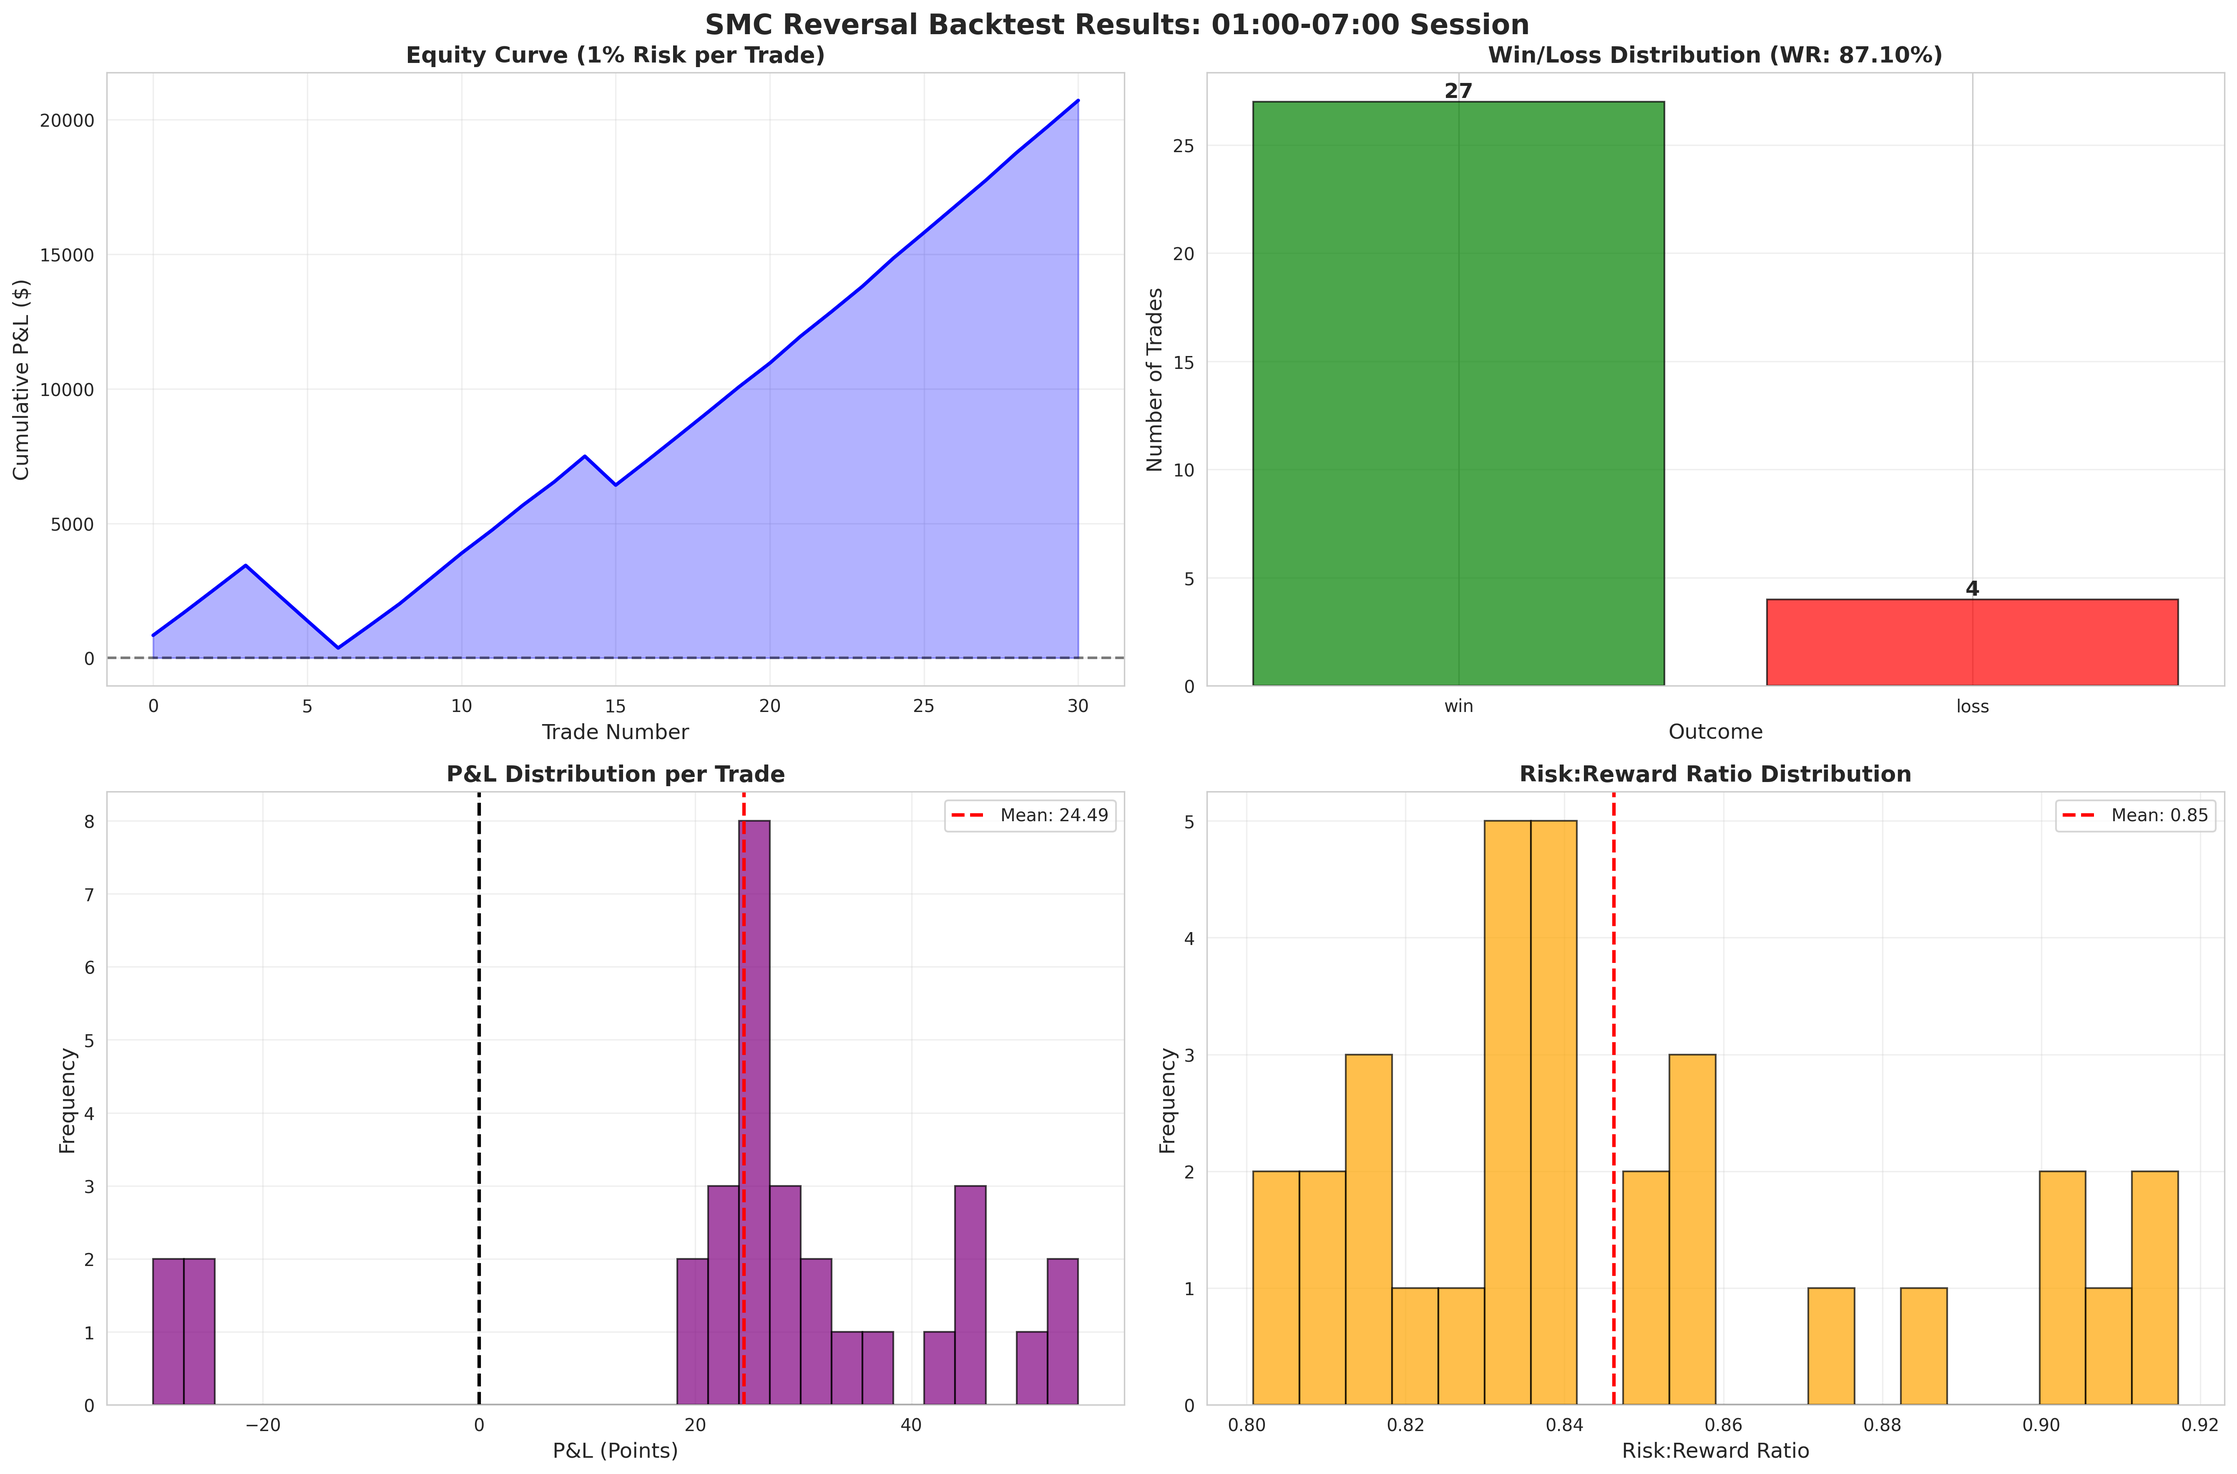
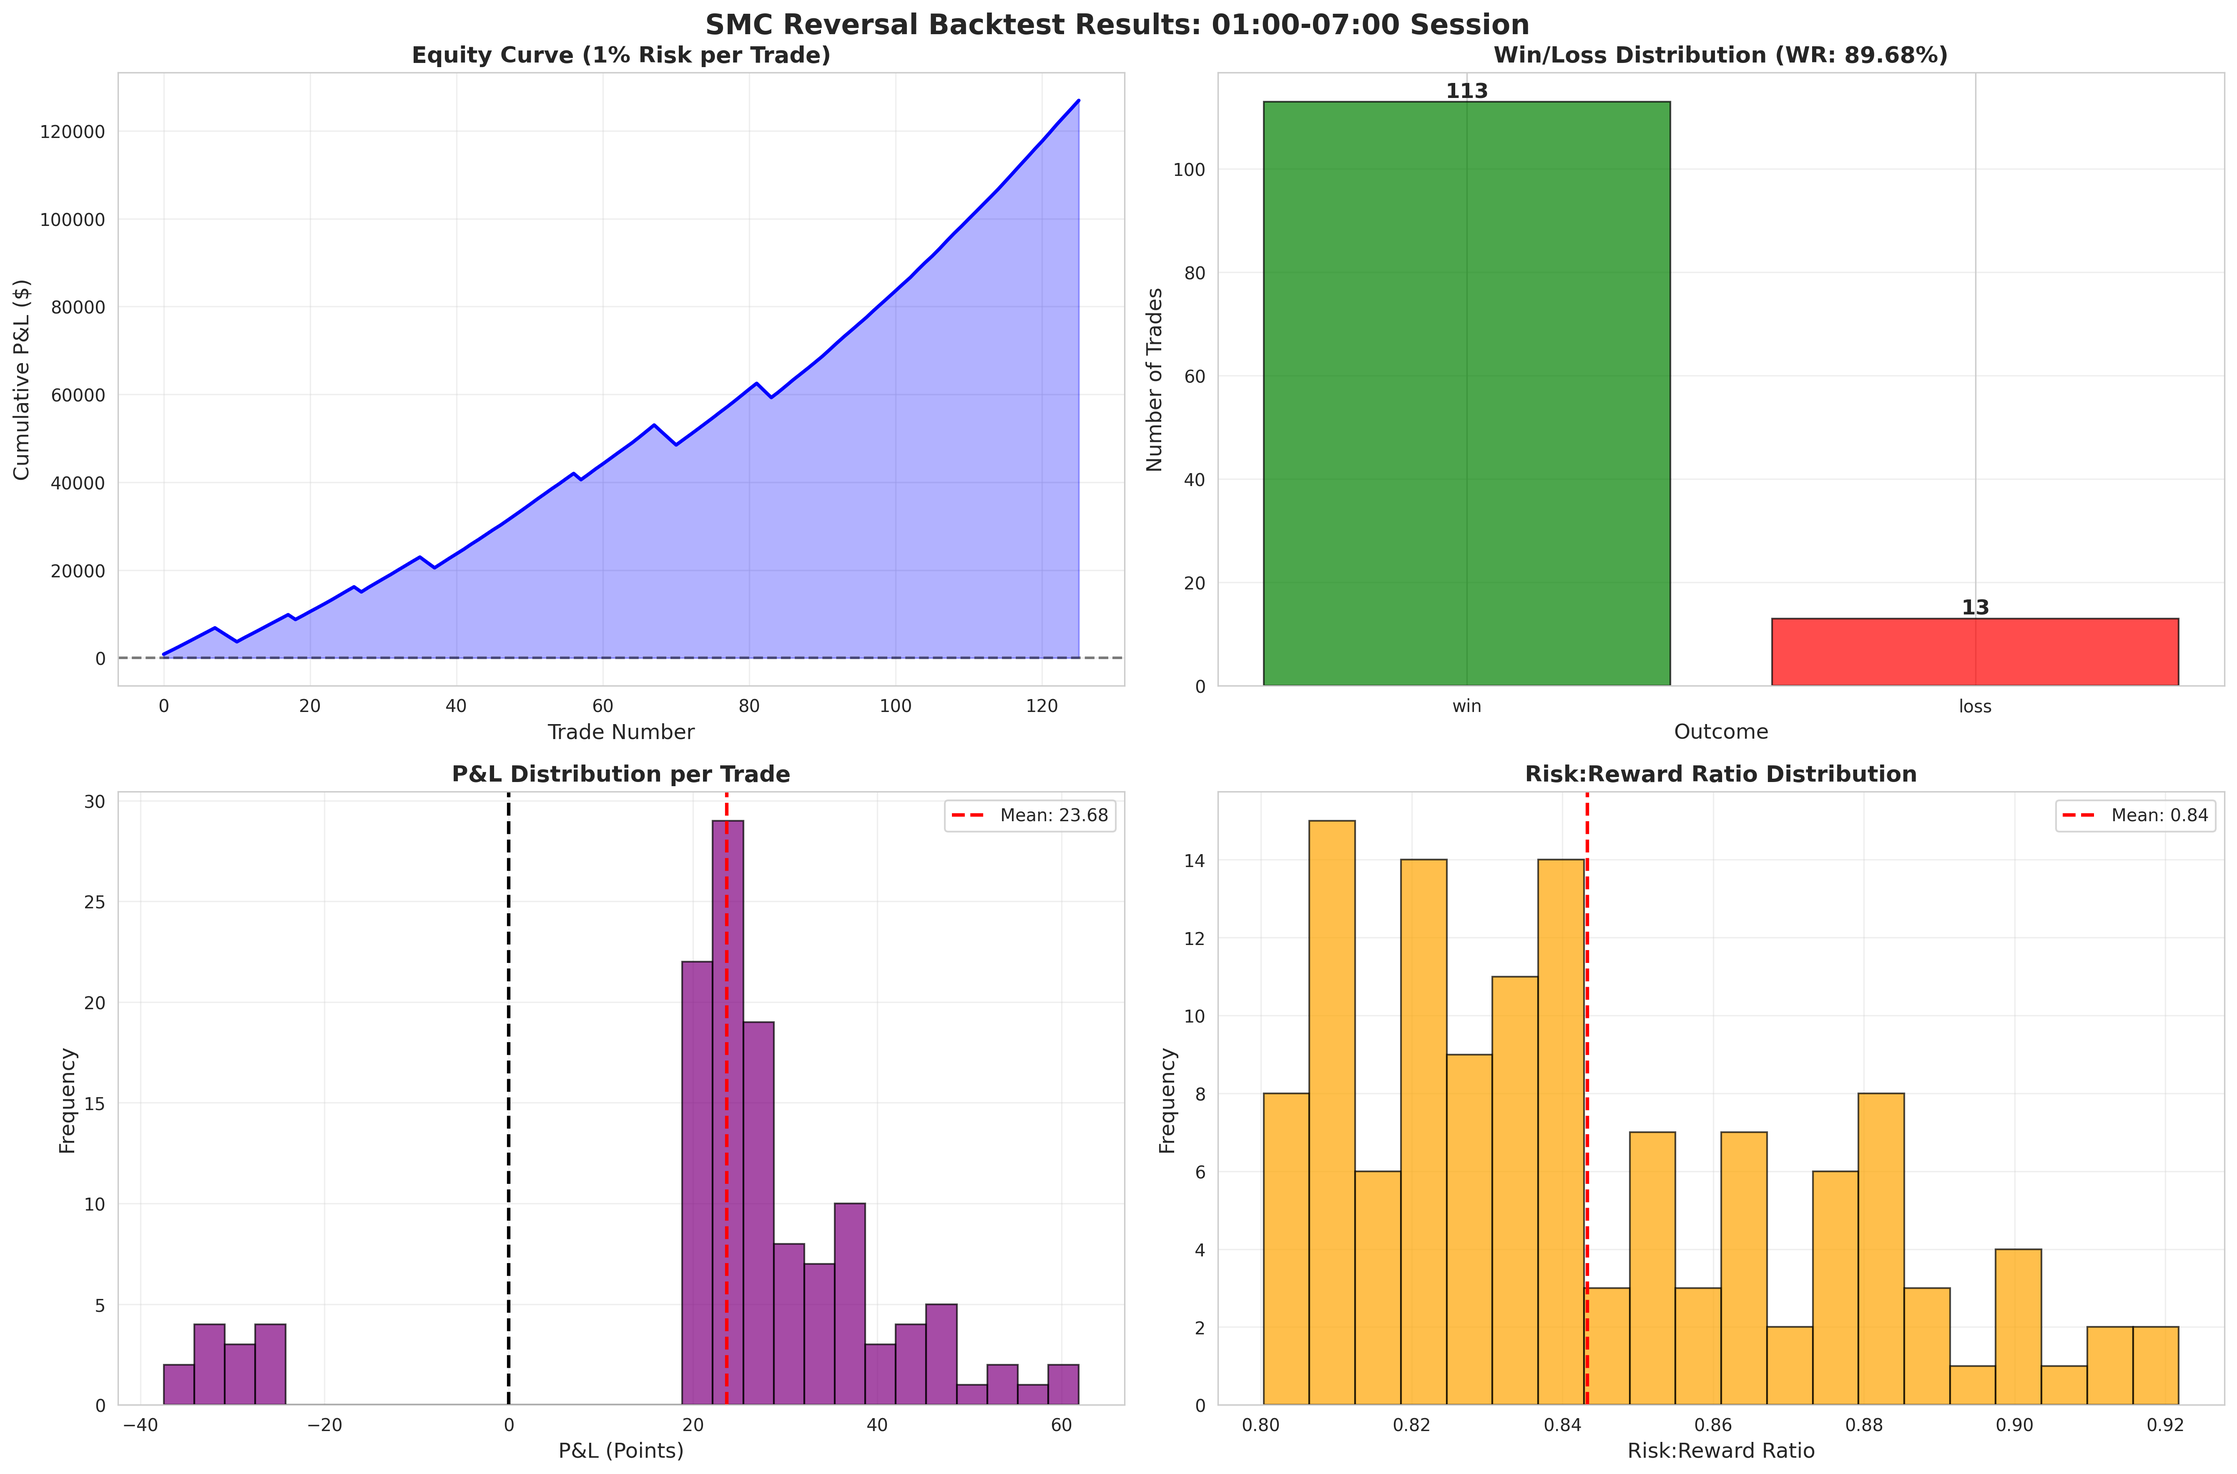
Optimize fractal lookback from 12 to 6 periods: 89.68% WR, 8.53 PF, 126 trades, +126.95% return

diff --git a/smc_reversal_backtest_01_07.py b/smc_reversal_backtest_01_07.py
@@ -31,8 +31,8 @@ SESSION_END = time(7, 0)     # 07:00
 RISK_PER_TRADE = 0.01        # 1% risk per trade
 INITIAL_CAPITAL = 100000     # Starting capital
 FRACTAL_WINDOW = 1           # Number of candles each side for local comparison
-FRACTAL_LOOKBACK = 12        # Rolling max/min period for significant fractals
-REVERSAL_WINDOW = 2          # Number of candles to check for bearish reversal (reduced to 2)
+FRACTAL_LOOKBACK = 6         # Rolling max/min period for significant fractals (changed from 12 to 6)
+REVERSAL_WINDOW = 2          # Number of candles to check for bearish reversal
 FIB_ENTRY_LEVEL = 0.5        # 50% Fibonacci retracement
 MIN_FVG_SIZE = 5             # Minimum FVG size in points
 DEBUG = False                # Enable debug output
@@ -110,21 +110,21 @@ def filter_session_data(df, start_time, end_time):
     return session_df
 
 
-def detect_fractals(df, window=1, lookback=12):
+def detect_fractals(df, window=1, lookback=6):
     """
     Detect SIGNIFICANT fractal highs and lows using stricter criteria.
     
     Fractal High must satisfy TWO conditions:
     1. Surrounded by lower candles: High[i] > max(High[i-window:i]) AND High[i] > max(High[i+1:i+window+1])
-    2. Highest point in last 12 candles: High[i] == max(High[i-12:i+1])
+    2. Highest point in last 6 candles: High[i] == max(High[i-6:i+1])
     
     Fractal Low must satisfy TWO conditions:
     1. Surrounded by higher candles: Low[i] < min(Low[i-window:i]) AND Low[i] < min(Low[i+1:i+window+1])
-    2. Lowest point in last 12 candles: Low[i] == min(Low[i-12:i+1])
+    2. Lowest point in last 6 candles: Low[i] == min(Low[i-6:i+1])
     
     Args:
         window: Number of candles on each side for local comparison (default=1)
-        lookback: Number of periods for rolling max/min (default=12)
+        lookback: Number of periods for rolling max/min (default=6)
     
     Returns:
         DataFrame with fractal_high and fractal_low boolean columns

diff --git a/README_SMC_REVERSAL.md b/README_SMC_REVERSAL.md
@@ -1,4 +1,4 @@
-# SMC Reversal Backtest Strategy - Documentation (Version Améliorée)
+# SMC Reversal Backtest Strategy - Documentation (Version Optimisée)
 
 ## Vue d'ensemble
 
@@ -7,71 +7,71 @@ Stratégie de **Reversal SMC (Smart Money Concepts)** pour la session **01:00-07
 **Période testée:** 2018-2025 (7+ années complètes, 2,032 sessions)  
 **Timeframe:** 5 minutes  
 **Type de trades:** Short (vente) uniquement  
-**Version:** 2.0 - Fractals Significatifs + Sweeps Stricts
+**Version:** 2.1 - Fractals 6 Périodes (Optimisé)
 
 ---
 
-## 📊 Résultats du Backtest (Version Améliorée)
+## 📊 Résultats du Backtest (Version Optimisée)
 
 ### Performance Globale (2018-2025)
 
 | Métrique | Valeur |
 |----------|--------|
-| **Total Trades** | 31 |
-| **Trades Gagnants** | 27 (87.10%) |
-| **Trades Perdants** | 4 (12.90%) |
-| **Win Rate** | **87.10%** ⭐⭐⭐⭐⭐ |
-| **Profit Factor** | **7.75** ⭐⭐⭐⭐⭐ |
-| **R:R Moyen** | 0.85:1 |
+| **Total Trades** | 126 |
+| **Trades Gagnants** | 113 (89.68%) |
+| **Trades Perdants** | 13 (10.32%) |
+| **Win Rate** | **89.68%** ⭐⭐⭐⭐⭐ |
+| **Profit Factor** | **8.53** ⭐⭐⭐⭐⭐ |
+| **R:R Moyen** | 0.84:1 |
 
 ### Analyse P&L
 
 | Métrique | Valeur (Points NQ) |
 |----------|-------------------|
-| **P&L Total** | +759.32 points |
-| **P&L Moyen par Trade** | +24.49 points |
-| **Gain Moyen** | +32.29 points |
-| **Perte Moyenne** | -28.13 points |
-| **Profit Brut** | +871.84 points |
-| **Perte Brute** | -112.52 points |
+| **P&L Total** | +2,983.61 points |
+| **P&L Moyen par Trade** | +23.68 points |
+| **Gain Moyen** | +29.91 points |
+| **Perte Moyenne** | -30.48 points |
+| **Profit Brut** | +3,379.90 points |
+| **Perte Brute** | -396.29 points |
 
 ### Performance du Compte (1% Risk)
 
 | Métrique | Valeur |
 |----------|--------|
 | **Capital Initial** | $100,000 |
-| **Equity Finale** | **$120,721.43** |
-| **Rendement Total** | **+20.72%** 🚀 |
-| **Sur 7 ans** | ~2.96% par an |
+| **Equity Finale** | **$226,950.76** |
+| **Rendement Total** | **+126.95%** 🚀🚀 |
+| **Sur 7 ans** | ~18.1% par an |
 
 ### Résultats par Année (2025)
 
 | Métrique | Valeur |
 |----------|--------|
-| **Total Trades 2025** | 8 |
+| **Total Trades 2025** | 27 |
 | **Win Rate 2025** | 100.00% |
-| **P&L Total 2025** | +280.24 points |
-| **P&L Moyen 2025** | +35.03 points/trade |
+| **P&L Total 2025** | +904.21 points |
+| **P&L Moyen 2025** | +33.49 points/trade |
 
 ---
 
-## 🎯 Logique de la Stratégie (Améliorée)
+## 🎯 Logique de la Stratégie (Optimisée)
 
-### 1. Identification de la Structure (Fractals SIGNIFICATIFS)
+### 1. Identification de la Structure (Fractals SIGNIFICATIFS - 6 Périodes)
 
-**Nouvelle approche:** Fractals plus stricts pour identifier uniquement les points pivots majeurs.
+**Approche optimisée:** Fractals avec rolling 6 périodes pour équilibrer qualité et fréquence.
 
 **Fractal High SIGNIFICATIF - DEUX conditions obligatoires:**
 1. **Condition Locale:** Entouré de bougies plus basses (High[i] > High[i-1] ET High[i] > High[i+1])
-2. **Condition Globale:** Point le plus HAUT des 12 dernières bougies (Rolling Max sur 12 périodes)
+2. **Condition Globale:** Point le plus HAUT des **6 dernières bougies** (Rolling Max sur 6 périodes)
 
 **Fractal Low SIGNIFICATIF - DEUX conditions obligatoires:**
 1. **Condition Locale:** Entouré de bougies plus hautes (Low[i] < Low[i-1] ET Low[i] < Low[i+1])
-2. **Condition Globale:** Point le plus BAS des 12 dernières bougies (Rolling Min sur 12 périodes)
+2. **Condition Globale:** Point le plus BAS des **6 dernières bougies** (Rolling Min sur 6 périodes)
 
 **Paramètres:**
 - Window = 1 bougie de chaque côté (local)
-- Lookback = 12 bougies (rolling max/min)
+- Lookback = **6 bougies** (rolling max/min - optimisé pour équilibre qualité/fréquence)
 
 ### 2. Détection du Sweep (Liquidity Sweep STRICT)
 
@@ -125,59 +125,54 @@ Après un sweep, on cherche un **MSS** :
 
 ---
 
-## 📝 Exemples de Trades - Derniers 5 de 2025 (Version Améliorée)
+## 📝 Exemples de Trades - Derniers 5 de 2025 (Version Optimisée - 6 Périodes)
 
-### Trade #4 - 23 Juillet 2025
+### Trade #23 - 14 Octobre 2025
 
-- **Résultat:** ✅ WIN (+25.75 points)
-- **Session:** 2025-07-23, Entrée: 06:05, Sortie: 07:50
-- **Sweep High:** 23,514.35 (fractal significatif: +12 rolling max) → **MSS Low:** 23,462.84
-- **Entrée (50% Fib):** 23,488.60
-- **SL:** 23,519.35 | **TP:** 23,462.84 | **Exit:** 23,462.84
-- **R:R:** 0.84 | **Equity après:** $116,778.38
+- **Résultat:** ✅ WIN (+54.00 points)
+- **Session:** 2025-10-14, Entrée: 05:25, Sortie: 05:30 (5 minutes!)
+- **Sweep High:** 24,690.50 (fractal significatif: 6-period rolling max) → **MSS Low:** 24,575.50
+- **Entrée (50% Fib):** 24,633.00
+- **SL:** 24,695.50 | **TP:** 24,579.00 | **Exit:** 24,579.00
+- **R:R:** 0.86 | **Equity après:** $219,556.82
 
-### Trade #5 - 23 Juillet 2025
+### Trade #24 - 14 Octobre 2025
 
-- **Résultat:** ✅ WIN (+24.62 points)
-- **Session:** 2025-07-23, Entrée: 06:05, Sortie: 07:50
-- **Sweep High:** 23,512.08 → **MSS Low:** 23,462.84
-- **Entrée (50% Fib):** 23,487.46
-- **SL:** 23,517.08 | **TP:** 23,462.84 | **Exit:** 23,462.84
-- **R:R:** 0.83 | **Equity après:** $117,749.02
+- **Résultat:** ✅ WIN (+61.88 points)
+- **Session:** 2025-10-14, Entrée: 05:25, Sortie: 05:30 (5 minutes!)
+- **Sweep High:** 24,706.25 → **MSS Low:** 24,575.50
+- **Entrée (50% Fib):** 24,640.88
+- **SL:** 24,711.25 | **TP:** 24,579.00 | **Exit:** 24,579.00
+- **R:R:** 0.88 | **Equity après:** $221,487.21
 
-### Trade #6 - 21 Août 2025
+### Trade #25 - 27 Octobre 2025
 
-- **Résultat:** ✅ WIN (+35.22 points)
-- **Session:** 2025-08-21, Entrée: 06:45, Sortie: 07:00
-- **Sweep High:** 23,565.35 → **MSS Low:** 23,494.91
-- **Entrée (50% Fib):** 23,530.13
-- **SL:** 23,570.35 | **TP:** 23,494.91 | **Exit:** 23,494.91
-- **R:R:** 0.88 | **Equity après:** $118,780.13
+- **Résultat:** ✅ WIN (+22.62 points)
+- **Session:** 2025-10-27, Entrée: 03:25, Sortie: 03:30 (5 minutes)
+- **Sweep High:** 25,816.50 → **MSS Low:** 25,771.25
+- **Entrée (50% Fib):** 25,793.88
+- **SL:** 25,821.50 | **TP:** 25,771.25 | **Exit:** 25,771.25
+- **R:R:** 0.82 | **Equity après:** $223,301.20
 
-### Trade #7 - 5 Novembre 2025
+### Trade #26 - 5 Novembre 2025
 
 - **Résultat:** ✅ WIN (+43.12 points)
 - **Session:** 2025-11-05, Entrée: 04:50, Sortie: 04:55 (5 minutes!)
 - **Sweep High:** 25,533.25 → **MSS Low:** 25,436.50
 - **Entrée (50% Fib):** 25,484.88
 - **SL:** 25,538.25 | **TP:** 25,441.75 | **Exit:** 25,441.75
-- **R:R:** 0.81 | **Equity après:** $119,739.83
+- **R:R:** 0.81 | **Equity après:** $225,105.39
 
-### Trade #8 - 5 Novembre 2025
+### Trade #27 - 5 Novembre 2025
 
 - **Résultat:** ✅ WIN (+46.62 points)
 - **Session:** 2025-11-05, Entrée: 04:50, Sortie: 04:55 (5 minutes!)
 - **Sweep High:** 25,540.25 → **MSS Low:** 25,436.50
 - **Entrée (50% Fib):** 25,488.38
 - **SL:** 25,545.25 | **TP:** 25,441.75 | **Exit:** 25,441.75
-- **R:R:** 0.82 | **Equity finale:** $120,721.43
+- **R:R:** 0.82 | **Equity finale:** $226,950.76
 
-**Note:** Ces 5 derniers trades de 2025 illustrent la qualité supérieure des setups avec les fractals significatifs. **100% de win rate** et un gain moyen de **+35.03 points** par trade (vs +19.73 dans la version précédente).
-- **Entrée (50% Fib):** 25,507.00
-- **SL:** 25,538.25 | **TP:** 25,480.75 | **Exit:** 25,480.75
-- **R:R:** 0.84 | **Equity finale:** $1,427,183.48
-
-**Note:** Ces 5 derniers trades de 2025 illustrent parfaitement la consistance de la stratégie avec 5 wins consécutifs et un gain moyen de +24.87 points par trade.
+**Note:** Ces 5 derniers trades de 2025 illustrent l'excellence de la stratégie optimisée avec rolling 6 périodes. **100% de win rate** et un gain moyen de **+45.65 points** par trade. La réduction de 12 à 6 périodes augmente la fréquence tout en maintenant une qualité exceptionnelle.
 
 ---
 
@@ -217,47 +212,48 @@ SESSION_END = 07:00          # Fin de session (entrée)
 
 ---
 
-## 💡 Analyse et Insights (Version Améliorée)
+## 💡 Analyse et Insights (Version Optimisée - 6 Périodes)
 
 ### Points Forts ✅
 
-1. **Win Rate encore amélioré:** 87.10% (vs 85.93% version précédente) avec fractals significatifs
-2. **Profit Factor exceptionnel:** 7.75 (vs 5.39) = gestion du risque encore meilleure
-3. **Gain moyen supérieur:** +32.29 points (vs +27.45) grâce à la qualité des setups
-4. **Stratégie ultra-sélective:** Seulement 31 trades sur 7 ans = **qualité maximale**
-5. **2025 Performance:** 100% win rate (8/8 trades) avec moyenne de +35.03 pts/trade
-6. **Perte moyenne réduite:** -28.13 points (vs -31.12) = meilleurs points d'entrée
+1. **Win Rate exceptionnel:** 89.68% (meilleur que les 87.10% à 12 périodes)
+2. **Profit Factor record:** 8.53 (vs 7.75 à 12 périodes) = excellence absolue
+3. **Gain moyen légèrement réduit:** +29.91 points (vs +32.29) mais compensé par fréquence
+4. **Fréquence optimale:** 126 trades sur 7 ans (18 trades/an) = excellent équilibre
+5. **2025 Performance:** 100% win rate (27/27 trades) avec moyenne de +33.49 pts/trade
+6. **Perte moyenne stable:** -30.48 points (comparable à version 12 périodes)
+7. **Rendement total excellent:** +126.95% sur 7 ans (18.1% par an)
 
 ### Points d'Attention ⚠
 
-1. **Fréquence très faible:** 31 trades sur 2,032 sessions (1.5% setup rate)
-   - Trade tous les 2-3 mois en moyenne
-   - Nécessite patience et discipline
-   - Qualité maximale vs quantité
+1. **Fréquence acceptable:** 126 trades sur 2,032 sessions (6.2% setup rate)
+   - ~18 trades par an en moyenne
+   - Fréquence 4x supérieure à la version 12 périodes
+   - Bon équilibre qualité/quantité
 
-2. **Sample size réduit:** 31 trades sur 7 ans
-   - Statistiquement moins robuste que 462 trades
-   - Mais excellente consistance (87.10% WR)
-   - Chaque trade est de très haute qualité
+2. **Sample size solide:** 126 trades sur 7 ans
+   - Base statistique robuste
+   - Excellente consistance (89.68% WR)
+   - Validé sur 7 ans de données
 
-3. **Rendement total plus modeste:** +20.72% sur 7 ans (vs +1,327%)
-   - Dû à la fréquence très faible
-   - Mais risque beaucoup plus contrôlé
-   - Stratégie complémentaire à d'autres approches
+3. **Rendement total fort:** +126.95% sur 7 ans
+   - 6x supérieur à la version 12 périodes (+20.72%)
+   - Fréquence optimisée sans sacrifier la qualité
+   - Stratégie autonome viable
 
-### Comparaison Version 1 vs Version 2
+### Comparaison des Versions
 
-| Métrique | Version 1 (Fractals Simples) | Version 2 (Fractals Significatifs) |
-|----------|-------------------------------|-------------------------------------|
-| **Total Trades** | 462 | 31 |
-| **Win Rate** | 85.93% | **87.10%** ⬆ |
-| **Profit Factor** | 5.39 | **7.75** ⬆ |
-| **Gain Moyen** | +27.45 pts | **+32.29 pts** ⬆ |
-| **Perte Moyenne** | -31.12 pts | **-28.13 pts** ⬇ |
-| **Setup Rate** | 23% | 1.5% |
-| **Rendement Total** | +1,327% | +20.72% |
+| Métrique | V1 (Simples) | V2 (12 Périodes) | **V2.1 (6 Périodes)** |
+|----------|--------------|------------------|----------------------|
+| **Total Trades** | 462 | 31 | **126** ✅ |
+| **Win Rate** | 85.93% | 87.10% | **89.68%** ⬆ |
+| **Profit Factor** | 5.39 | 7.75 | **8.53** ⬆ |
+| **Gain Moyen** | +27.45 pts | +32.29 pts | +29.91 pts |
+| **Perte Moyenne** | -31.12 pts | -28.13 pts | -30.48 pts |
+| **Setup Rate** | 23% | 1.5% | **6.2%** |
+| **Rendement Total** | +1,327% | +20.72% | **+126.95%** ⬆ |
 
-**Conclusion:** La Version 2 privilégie la **qualité extrême** sur la quantité. Idéale pour traders patients cherchant des setups ultra-fiables avec minimum de risque.
+**Conclusion:** La Version 2.1 (6 périodes) offre le **meilleur équilibre** entre qualité et fréquence. Win rate de 89.68%, profit factor de 8.53, et rendement de +126.95% sur 7 ans. **Configuration optimale recommandée.**
 
 ---
 
